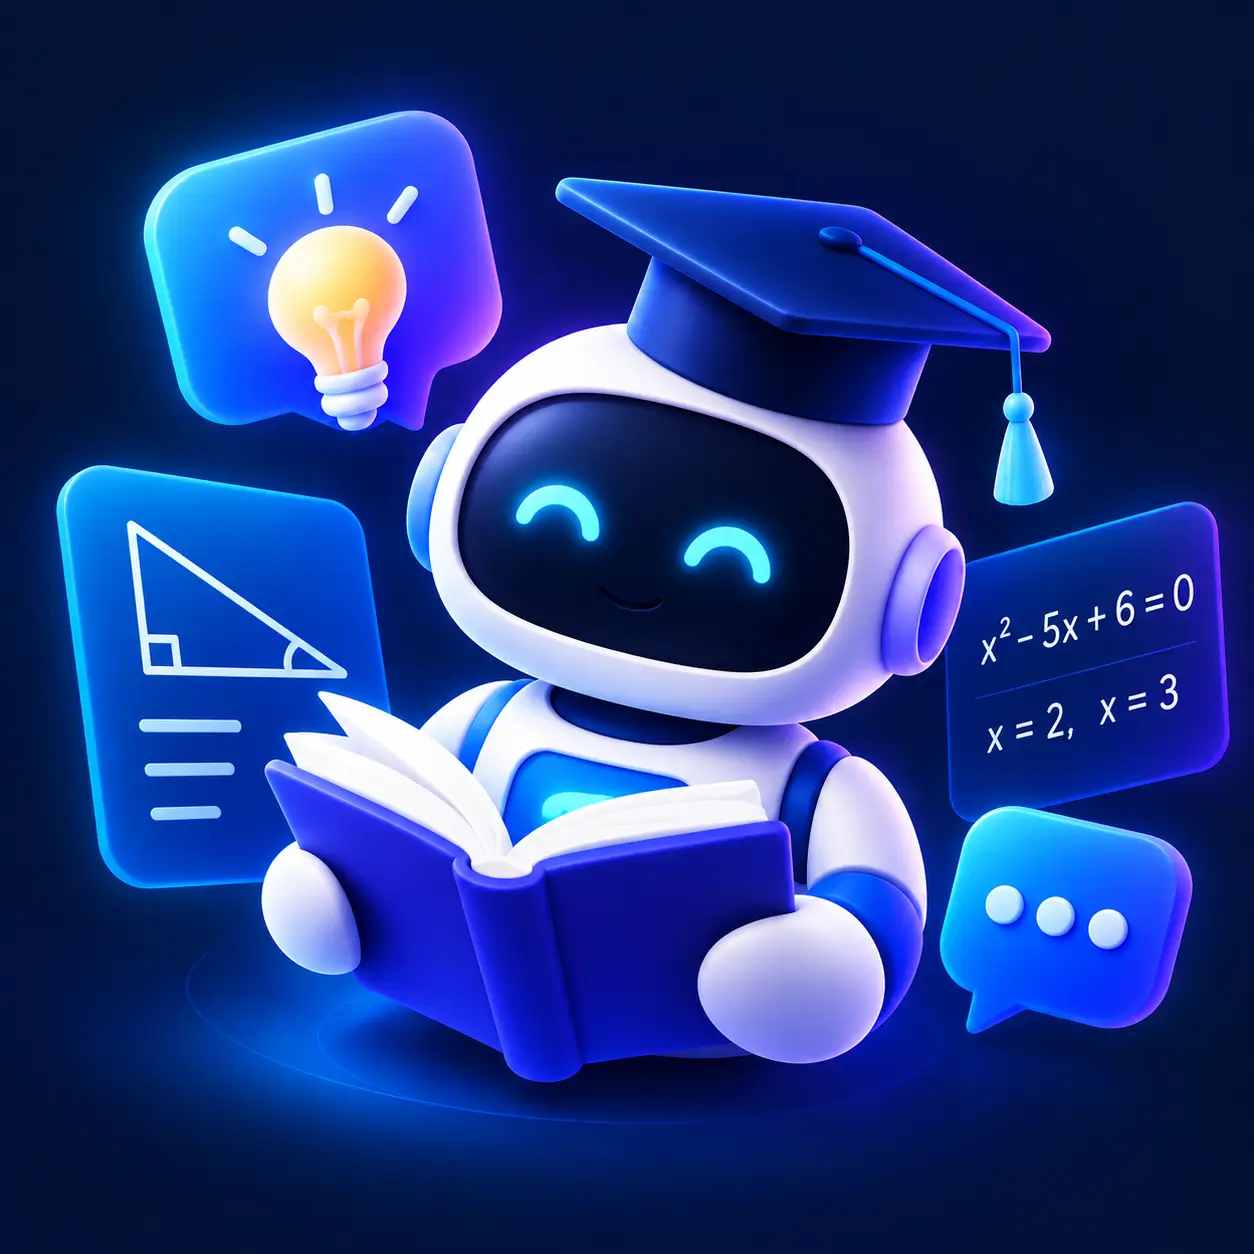
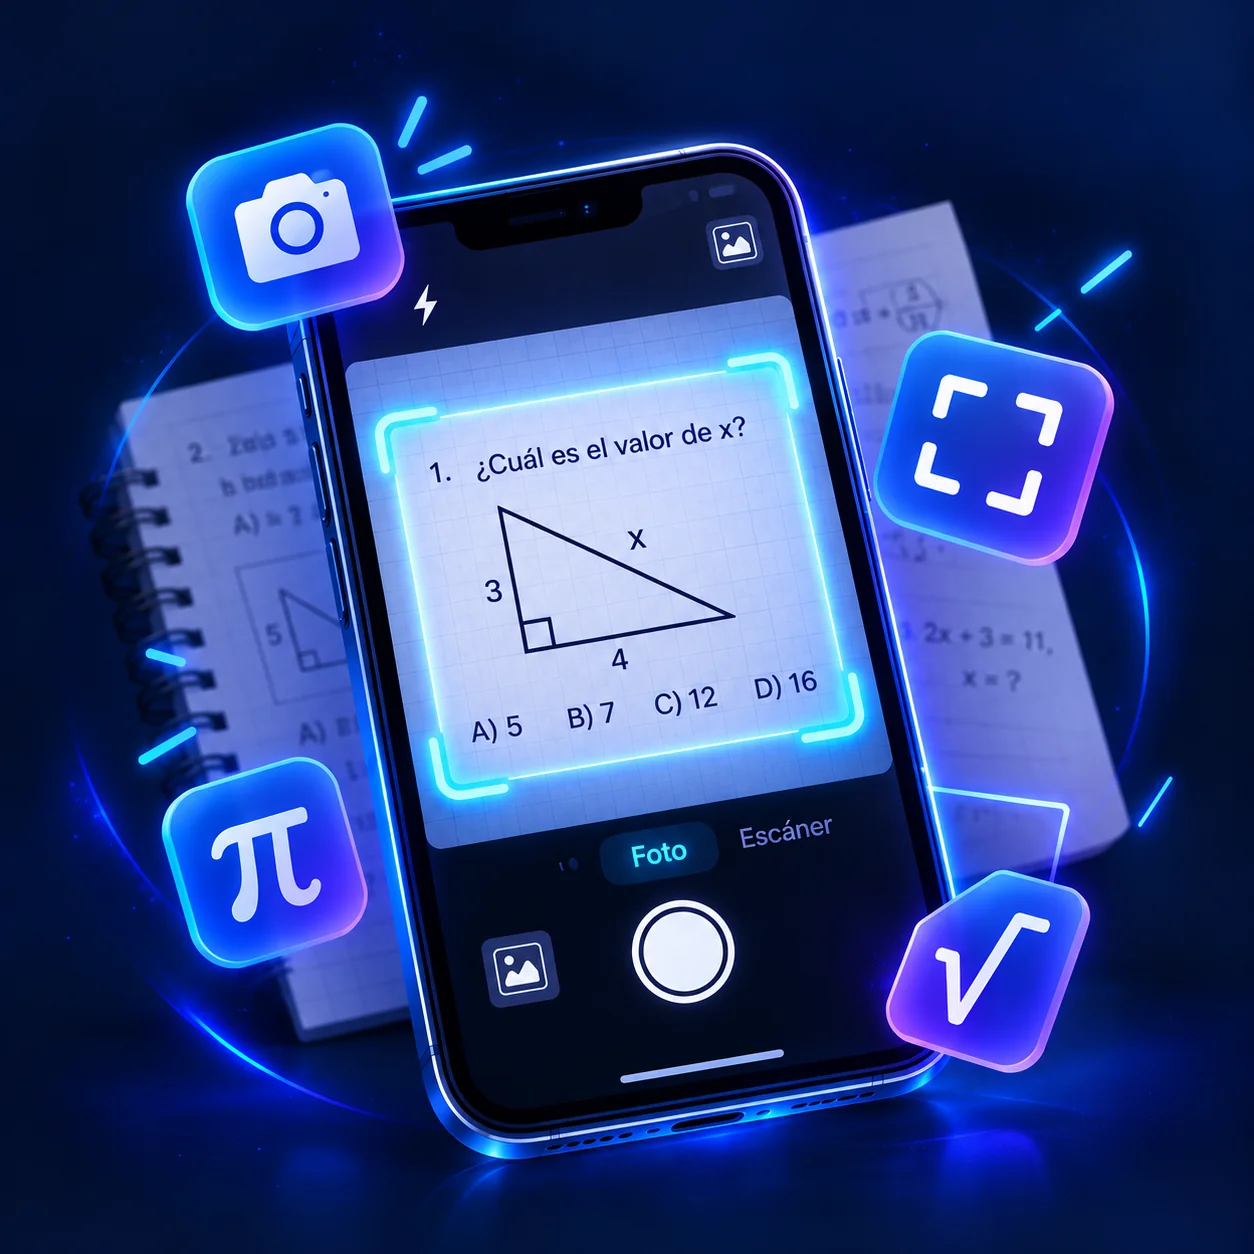
fix(onboarding): textos acordes a la app, solo botón Continuar e imagen nueva
- Banner del inicio: "Simula tu puntaje PAES y tu postulación" (ya no promete
  simulaciones reales que la app no tiene).
- Onboarding: el paso 2 habla de escanear y resolver con una foto; el paso 3
  de calculadoras favoritas e historial. Textos alineados a la izquierda y
  más grandes; la imagen se adapta al alto de la pantalla.
- Se desactiva el deslizamiento con el dedo: solo avanza el botón Continuar.

diff --git a/src/components/onboarding.tsx b/src/components/onboarding.tsx
@@ -12,8 +12,6 @@ import {
   View,
   useWindowDimensions,
   type ImageSourcePropType,
-  type NativeScrollEvent,
-  type NativeSyntheticEvent,
 } from 'react-native';
 import { useSafeAreaInsets } from 'react-native-safe-area-context';
 
@@ -27,7 +25,12 @@ type Slider = {
   tituloAcento: string;
   texto: string;
   imagen?: ImageSourcePropType;
+  /** Ancho / alto de la imagen. Sin valor se muestra cuadrada. */
+  imagenAspecto?: number;
 };
+
+/** Alto común de las ilustraciones del onboarding. */
+const ALTO_IMAGEN = 290;
 
 /** Los 3 pasos del onboarding. */
 const SLIDERS: Slider[] = [
@@ -40,11 +43,11 @@ const SLIDERS: Slider[] = [
     imagen: require('../../assets/images/onboarding-1.webp'),
   },
   {
-    id: 'tutor-ia',
-    icono: 'chatbubbles',
-    titulo: 'Entiende, no solo',
-    tituloAcento: 'memorices',
-    texto: 'Practica ejercicios, recibe explicaciones paso a paso y utiliza el Tutor IA para comprender los temas que más te cuestan.',
+    id: 'resolver-foto',
+    icono: 'camera',
+    titulo: 'Escanea y resuelve',
+    tituloAcento: 'con una foto',
+    texto: 'Toma una foto de tu ejercicio, selecciona el problema y descubre su solución paso a paso.',
     imagen: require('../../assets/images/onboarding-2.webp'),
   },
   {
@@ -52,7 +55,7 @@ const SLIDERS: Slider[] = [
     icono: 'trending-up',
     titulo: 'Tu progreso,',
     tituloAcento: 'paso a paso',
-    texto: 'Practica para la PAES, organiza tus estudios y sigue tu avance a medida que utilizas CalculaPromedio.',
+    texto: 'Guarda tus calculadoras favoritas, revisa tu historial de cálculos y sigue tu avance a medida que utilizas CalculaPromedio.',
     imagen: require('../../assets/images/onboarding-3.webp'),
   },
 ];
@@ -60,18 +63,19 @@ const SLIDERS: Slider[] = [
 /** Onboarding de primer uso: 3 pasos, se muestra una vez y se guarda localmente. */
 export function Onboarding({ onListo }: { onListo: () => void }) {
   const insets = useSafeAreaInsets();
-  const { width } = useWindowDimensions();
+  const { width, height } = useWindowDimensions();
+  // La ilustración se adapta al alto de la pantalla para que el texto de abajo siempre se vea
+  const altoImagen = Math.min(ALTO_IMAGEN, Math.max(180, Math.round(height * 0.32)));
   const pagerRef = useRef<ScrollView>(null);
   const [paginaActiva, setPaginaActiva] = useState(0);
 
   const esUltima = paginaActiva === SLIDERS.length - 1;
 
-  const alCambiarPagina = (e: NativeSyntheticEvent<NativeScrollEvent>) => {
-    setPaginaActiva(Math.round(e.nativeEvent.contentOffset.x / width));
-  };
-
+  /** Solo se avanza con el botón "Continuar": el deslizamiento con el dedo está desactivado. */
   function continuar() {
-    pagerRef.current?.scrollTo({ x: width * (paginaActiva + 1), animated: true });
+    const siguiente = Math.min(paginaActiva + 1, SLIDERS.length - 1);
+    pagerRef.current?.scrollTo({ x: width * siguiente, animated: true });
+    setPaginaActiva(siguiente);
   }
 
   async function terminar() {
@@ -110,12 +114,24 @@ export function Onboarding({ onListo }: { onListo: () => void }) {
           ref={pagerRef}
           horizontal
           pagingEnabled
-          showsHorizontalScrollIndicator={false}
-          onMomentumScrollEnd={alCambiarPagina}>
+          scrollEnabled={false}
+          showsHorizontalScrollIndicator={false}>
           {SLIDERS.map((slider) => (
-            <View key={slider.id} style={[styles.pagina, { width }]}>
+            <ScrollView
+              key={slider.id}
+              style={{ width }}
+              contentContainerStyle={styles.pagina}
+              showsVerticalScrollIndicator={false}
+              bounces={false}>
               {slider.imagen ? (
-                <Image source={slider.imagen} style={styles.sliderImagen} resizeMode="cover" />
+                <Image
+                  source={slider.imagen}
+                  style={[
+                    styles.sliderImagen,
+                    { width: altoImagen * (slider.imagenAspecto ?? 1), height: altoImagen },
+                  ]}
+                  resizeMode="cover"
+                />
               ) : (
                 <View style={styles.sliderIconoWrap}>
                   <LinearGradient
@@ -130,7 +146,7 @@ export function Onboarding({ onListo }: { onListo: () => void }) {
               <Text style={styles.sliderTitulo}>{slider.titulo}</Text>
               <Text style={styles.sliderTituloAcento}>{slider.tituloAcento}</Text>
               <Text style={styles.sliderTexto}>{slider.texto}</Text>
-            </View>
+            </ScrollView>
           ))}
         </ScrollView>
 
@@ -231,13 +247,13 @@ const styles = StyleSheet.create({
     marginTop: Spacing.two,
   },
   pagina: {
-    alignItems: 'center',
-    paddingHorizontal: Spacing.six,
-    paddingTop: Spacing.six * 1.5,
+    alignItems: 'stretch',
+    paddingHorizontal: Spacing.five,
+    paddingTop: Spacing.five + Spacing.two,
+    paddingBottom: Spacing.three,
   },
   sliderImagen: {
-    width: 280,
-    height: 280,
+    alignSelf: 'center',
     borderRadius: 32,
     borderWidth: 1,
     borderColor: 'rgba(255,255,255,0.08)',
@@ -248,6 +264,7 @@ const styles = StyleSheet.create({
     elevation: 12,
   },
   sliderIconoWrap: {
+    alignSelf: 'center',
     marginTop: Spacing.five,
     shadowColor: '#7c3aed',
     shadowOffset: { width: 0, height: 8 },
@@ -264,26 +281,26 @@ const styles = StyleSheet.create({
   },
   sliderTitulo: {
     color: '#ffffff',
-    fontSize: 26,
+    fontSize: 32,
     fontWeight: '800',
-    letterSpacing: -0.4,
+    letterSpacing: -0.6,
     marginTop: Spacing.six,
-    textAlign: 'center',
+    textAlign: 'left',
   },
   sliderTituloAcento: {
     color: '#38bdf8',
-    fontSize: 26,
+    fontSize: 32,
     fontWeight: '800',
-    letterSpacing: -0.4,
-    textAlign: 'center',
+    letterSpacing: -0.6,
+    textAlign: 'left',
   },
   sliderTexto: {
     color: '#cbd5e1',
-    fontSize: 14,
-    lineHeight: 21,
-    textAlign: 'center',
+    fontSize: 16,
+    lineHeight: 24,
+    textAlign: 'left',
     marginTop: Spacing.three,
-    maxWidth: 320,
+    maxWidth: 340,
   },
   dots: {
     flexDirection: 'row',

diff --git a/src/app/index.tsx b/src/app/index.tsx
@@ -68,8 +68,8 @@ const BANNERS: Banner[] = [
   {
     id: 'paes',
     gradient: ['#0c2a4a', '#312e81'],
-    titulo: 'Prepárate para la PAES',
-    tituloAcento: 'con simulaciones reales',
+    titulo: 'Simula tu puntaje PAES',
+    tituloAcento: 'y tu postulación',
     subtitulo: 'Estima tu NEM, tu puntaje ponderado y tu ranking de postulación.',
     boton: 'Ver más',
     ruta: '/calculadoras/nem',
